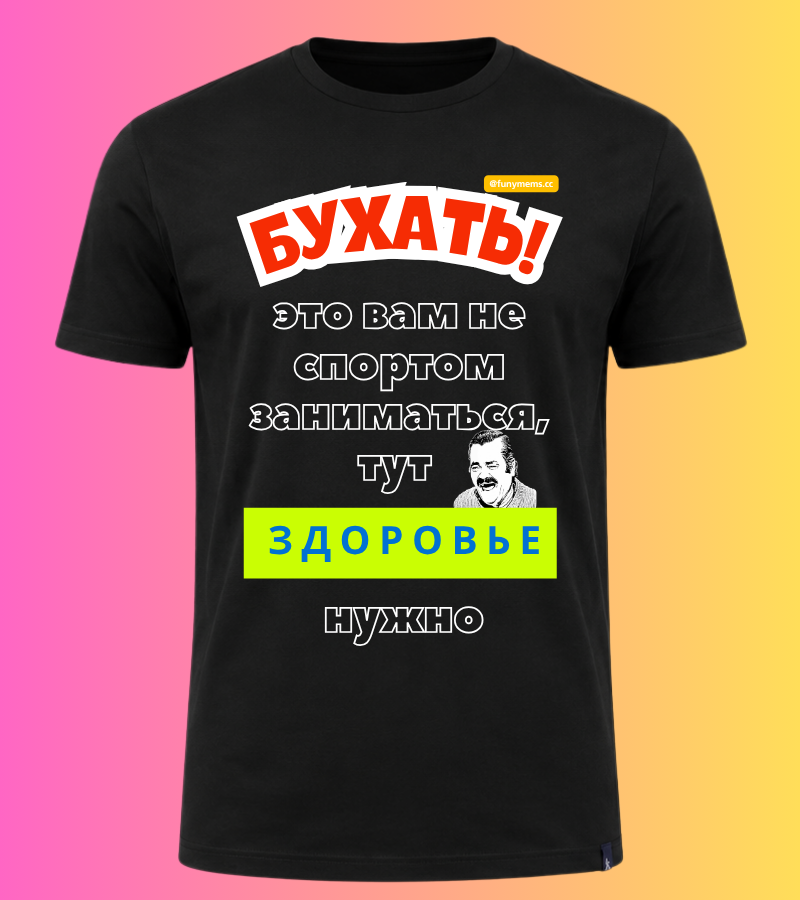
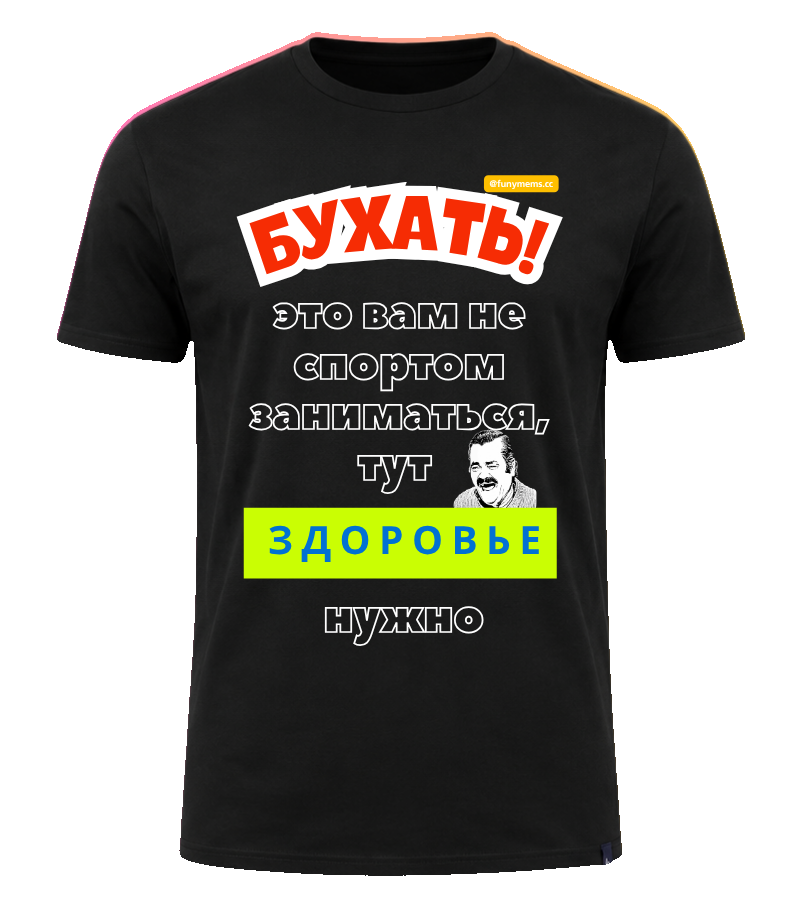
Пять новых футболок из архива (4) и вырезанный фон
Я разбирал ФУТБОЛКИ (2).zip, а рядом лежал более свежий ФУТБОЛКИ (4).zip —
в нём 52 файла и пять дизайнов, которых нигде не было: «Шашлык не жена»,
«Шашлық қатын емес», «Походу ты уже пьяный», «Тойып алған сияқтысың»,
«Грамотное планирование». Добавил все пять, каталог стал 26 товаров.

Фон: у картинок на сайте он вырезан (RGBA, alpha=0), а в архиве принты
лежат с розово-жёлтым градиентом (RGB). Прошлое сравнение я делал через
convert('RGB') и альфу отбрасывал — поэтому не заметил, что buhatcolor
залил с фоном. Вырезал фон у всех новых и переделал buhatcolor.

Маску не угадывал: мокап один и тот же (фон совпадает с эталоном на
99–100%), а alpha у volosy/chasy/arak побайтово одинаковая — её и
переносим. Прозрачность 43.8% (белая) и 44.8% (чёрная), как у остальных.

Архив (4) тоже лежал в public/ и уехал бы в сборку — перенёс в _source/.

diff --git a/src/data.js b/src/data.js
@@ -16,6 +16,51 @@ export const MARKETS = {
 // Каждый товар — фотомокап в белом и чёрном варианте (public/tees).
 export const PRODUCTS = [
   {
+    id: 'shashlyk',
+    market: 'ru',
+    base: 9900,
+    color: '#e9e7e2',
+    photos: { white: '/tees/shashlyk-w.png', black: '/tees/shashlyk-b.png' },
+    ru: { title: 'Шашлык не жена', sub: 'Смело бери 3–4 штуки' },
+    kk: { title: 'Шашлык не жена', sub: 'Батыл бол: 3–4 ал' },
+  },
+  {
+    id: 'shashlykkz',
+    market: 'kk',
+    base: 9900,
+    color: '#e9e7e2',
+    photos: { white: '/tees/shashlykkz-w.png', black: '/tees/shashlykkz-b.png' },
+    ru: { title: 'Шашлық қатын емес', sub: 'Не бойся, бери 3–4' },
+    kk: { title: 'Шашлық қатын емес', sub: 'Қорқпай 3–4-ін ала бер' },
+  },
+  {
+    id: 'pyanyi',
+    market: 'ru',
+    base: 9900,
+    color: '#e9e7e2',
+    photos: { white: '/tees/pyanyi-w.png', black: '/tees/pyanyi-b.png' },
+    ru: { title: 'Походу ты уже пьяный', sub: 'Если надпись двоится — значит да' },
+    kk: { title: 'Походу ты уже пьяный', sub: 'Жазу екеу боп көрінсе — солай' },
+  },
+  {
+    id: 'toiyp',
+    market: 'kk',
+    base: 9900,
+    color: '#e9e7e2',
+    photos: { white: '/tees/toiyp-w.png', black: '/tees/toiyp-b.png' },
+    ru: { title: 'Тойып алған сияқтысың', sub: 'Казахская версия «ты уже пьяный»' },
+    kk: { title: 'Тойып алған сияқтысың', sub: 'Жазу екеу боп көрінсе — дәл солай' },
+  },
+  {
+    id: 'planirovanie',
+    market: 'ru',
+    base: 10900,
+    color: '#e9e7e2',
+    photos: { white: '/tees/planirovanie-w.png', black: '/tees/planirovanie-b.png' },
+    ru: { title: 'Грамотное планирование', sub: 'Запланировал ничего не делать — всё успел' },
+    kk: { title: 'Сауатты жоспарлау', sub: 'Ештеңе жасамауды жоспарладым — үлгердім' },
+  },
+  {
     id: 'arak',
     market: 'kk',
     base: 9900,
